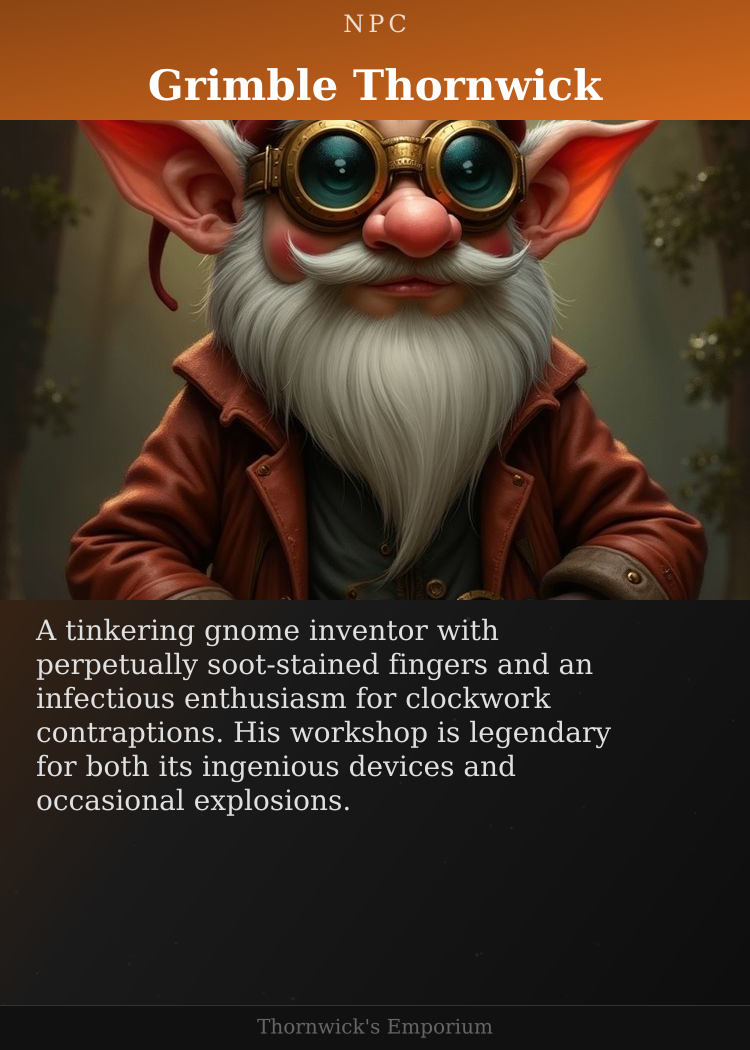
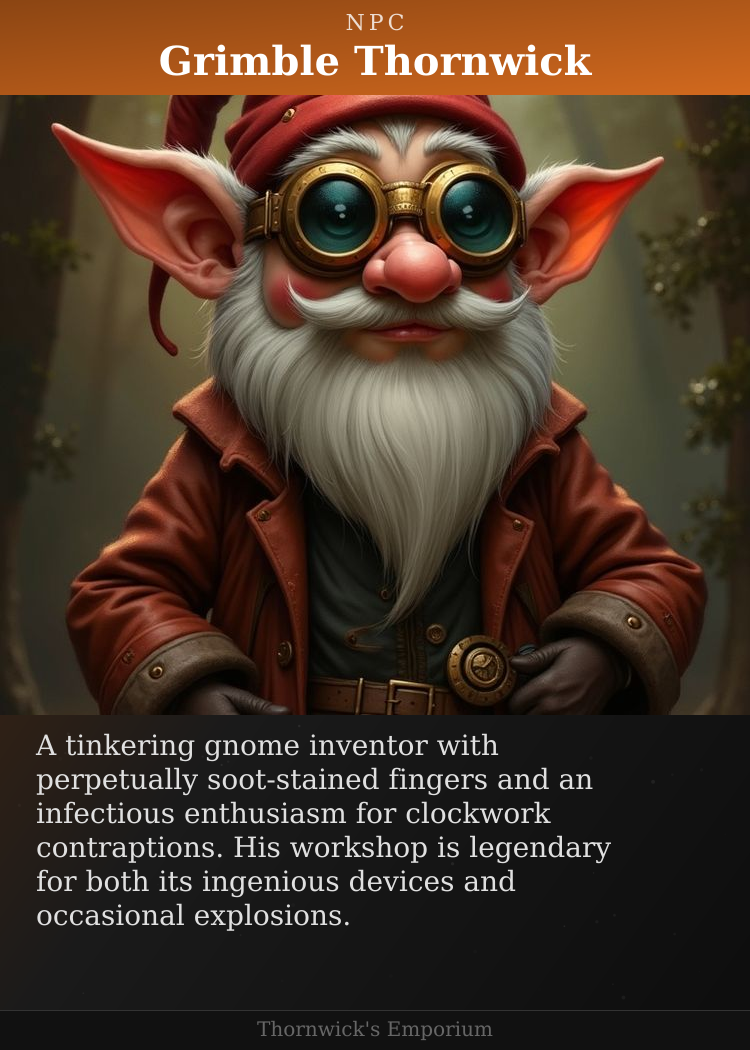
Improve card layout proportions, simplify to 2 styles
- Increase portrait height (480→620px) for more visual impact
- Reduce header (120→95px) and footer (45→40px) for tighter layout
- Remove minimal, compact, framed styles - keep only dark and parchment
- Update documentation to reflect simplified style options

diff --git a/packages/card-generator/scripts/render-card-sharp.js b/packages/card-generator/scripts/render-card-sharp.js
@@ -5,7 +5,7 @@
  * Usage:
  *   node render-card-sharp.js <card.json> <output.png> [--style=STYLE]
  *
- * Styles: dark (default), parchment, minimal, compact, framed
+ * Styles: dark (default), parchment
  */
 
 const fs = require('fs');
@@ -20,9 +20,9 @@ const PADDING = 36;
 // Style configurations
 const STYLES = {
   dark: {
-    portraitHeight: 480,
-    headerHeight: 120,
-    footerHeight: 45,
+    portraitHeight: 620,
+    headerHeight: 95,
+    footerHeight: 40,
     bgColor: '#1a1a1a',
     textColor: '#e0e0e0',
     headerTextColor: 'white',
@@ -32,9 +32,9 @@ const STYLES = {
     portraitInset: 0
   },
   parchment: {
-    portraitHeight: 480,
-    headerHeight: 120,
-    footerHeight: 45,
+    portraitHeight: 620,
+    headerHeight: 95,
+    footerHeight: 40,
     bgColor: '#f4e4c1',
     textColor: '#2a2016',
     headerTextColor: '#f4e4c1',
@@ -43,43 +43,6 @@ const STYLES = {
     textured: true,
     portraitInset: 0
   },
-  minimal: {
-    portraitHeight: 450,
-    headerHeight: 100,
-    footerHeight: 40,
-    bgColor: '#ffffff',
-    textColor: '#333333',
-    headerTextColor: 'white',
-    footerBgColor: '#f5f5f5',
-    footerTextColor: '#999999',
-    textured: false,
-    portraitInset: 0
-  },
-  compact: {
-    portraitHeight: 320,
-    headerHeight: 100,
-    footerHeight: 40,
-    bgColor: '#1a1a1a',
-    textColor: '#e0e0e0',
-    headerTextColor: 'white',
-    footerBgColor: '#111111',
-    footerTextColor: '#666666',
-    textured: true,
-    portraitInset: 0
-  },
-  framed: {
-    portraitHeight: 420,
-    headerHeight: 120,
-    footerHeight: 45,
-    bgColor: '#1a1a1a',
-    textColor: '#e0e0e0',
-    headerTextColor: 'white',
-    footerBgColor: '#111111',
-    footerTextColor: '#666666',
-    textured: true,
-    portraitInset: 24,  // Margin around portrait
-    portraitBorder: 3   // Border width
-  }
 };
 
 // Category colors
@@ -118,7 +81,7 @@ async function createBackground(width, height, colors, style) {
           <stop offset="100%" style="stop-color:${style === 'parchment' ? '#e8d4a8' : '#0d0d0d'}"/>
         </linearGradient>
       </defs>
-      <rect width="${width}" height="${height}" fill="${style === 'minimal' ? s.bgColor : 'url(#bg)'}"/>
+      <rect width="${width}" height="${height}" fill="url(#bg)"/>
       ${s.textured ? generateNoisePattern(width, height, 0.02, noiseColor) : ''}
     </svg>
   `;
@@ -129,8 +92,8 @@ async function createHeader(width, height, category, name, colors, style) {
   const s = STYLES[style];
   const safeName = escapeXml(name);
   const safeCategory = escapeXml(category.toUpperCase());
-  const fontSize = style === 'compact' || style === 'minimal' ? 36 : 42;
-  const catSize = style === 'compact' || style === 'minimal' ? 20 : 24;
+  const fontSize = 40;
+  const catSize = 22;
 
   const svg = `
     <svg width="${width}" height="${height}">
@@ -156,9 +119,9 @@ async function createHeader(width, height, category, name, colors, style) {
 async function createBody(width, height, description, colors, style) {
   const s = STYLES[style];
   const safeDesc = escapeXml(description || '');
-  const fontSize = style === 'compact' ? 26 : 28;
-  const lineHeight = style === 'compact' ? 30 : 34;
-  const maxChars = style === 'compact' ? 44 : 42;
+  const fontSize = 28;
+  const lineHeight = 34;
+  const maxChars = 42;
 
   const descLines = wordWrap(safeDesc, maxChars);
   const descY = 40;
@@ -179,7 +142,7 @@ async function createBody(width, height, description, colors, style) {
 
 async function createFooter(width, height, text, style) {
   const s = STYLES[style];
-  const borderColor = style === 'parchment' ? '#c4a882' : (style === 'minimal' ? '#e0e0e0' : '#333333');
+  const borderColor = style === 'parchment' ? '#c4a882' : '#333333';
 
   const svg = `
     <svg width="${width}" height="${height}">
@@ -253,23 +216,6 @@ async function renderCard(cardPath, outputPath, style = 'dark') {
     portraitBuffer = await sharp(Buffer.from(placeholderSvg)).png().toBuffer();
   }
 
-  // Add border for framed style
-  if (s.portraitBorder) {
-    const borderWidth = s.portraitBorder;
-    const borderedWidth = portraitWidth + (borderWidth * 2);
-    const borderedHeight = portraitInnerHeight + (borderWidth * 2);
-    const borderSvg = `
-      <svg width="${borderedWidth}" height="${borderedHeight}">
-        <rect width="${borderedWidth}" height="${borderedHeight}" fill="${colors.light}"/>
-      </svg>
-    `;
-    const borderBuffer = await sharp(Buffer.from(borderSvg)).png().toBuffer();
-    portraitBuffer = await sharp(borderBuffer)
-      .composite([{ input: portraitBuffer, top: borderWidth, left: borderWidth }])
-      .png()
-      .toBuffer();
-  }
-
   const bodyHeight = CARD_HEIGHT - s.headerHeight - s.portraitHeight - s.footerHeight;
 
   const [background, header, body, footer] = await Promise.all([
@@ -315,9 +261,6 @@ Usage:
 Styles:
   dark      - Dark textured background, light text (default)
   parchment - Aged paper look, dark text
-  minimal   - Clean white background
-  compact   - Smaller portrait, more room for text
-  framed    - Portrait with decorative border/margin
 
 Example:
   node render-card-sharp.js card.json card.png --style=parchment

diff --git a/packages/card-generator/CLAUDE.md b/packages/card-generator/CLAUDE.md
@@ -34,9 +34,6 @@ Categories: `npc`, `location`, `item`, `faction`, `quest`, `mystery`
 |-------|-------------|
 | `dark` | Dark textured background, light text (default) |
 | `parchment` | Aged paper look, dark text |
-| `minimal` | Clean white, no texture |
-| `compact` | Smaller portrait, more text room |
-| `framed` | Portrait with border/margin |
 
 ## Flux Size Presets
 
